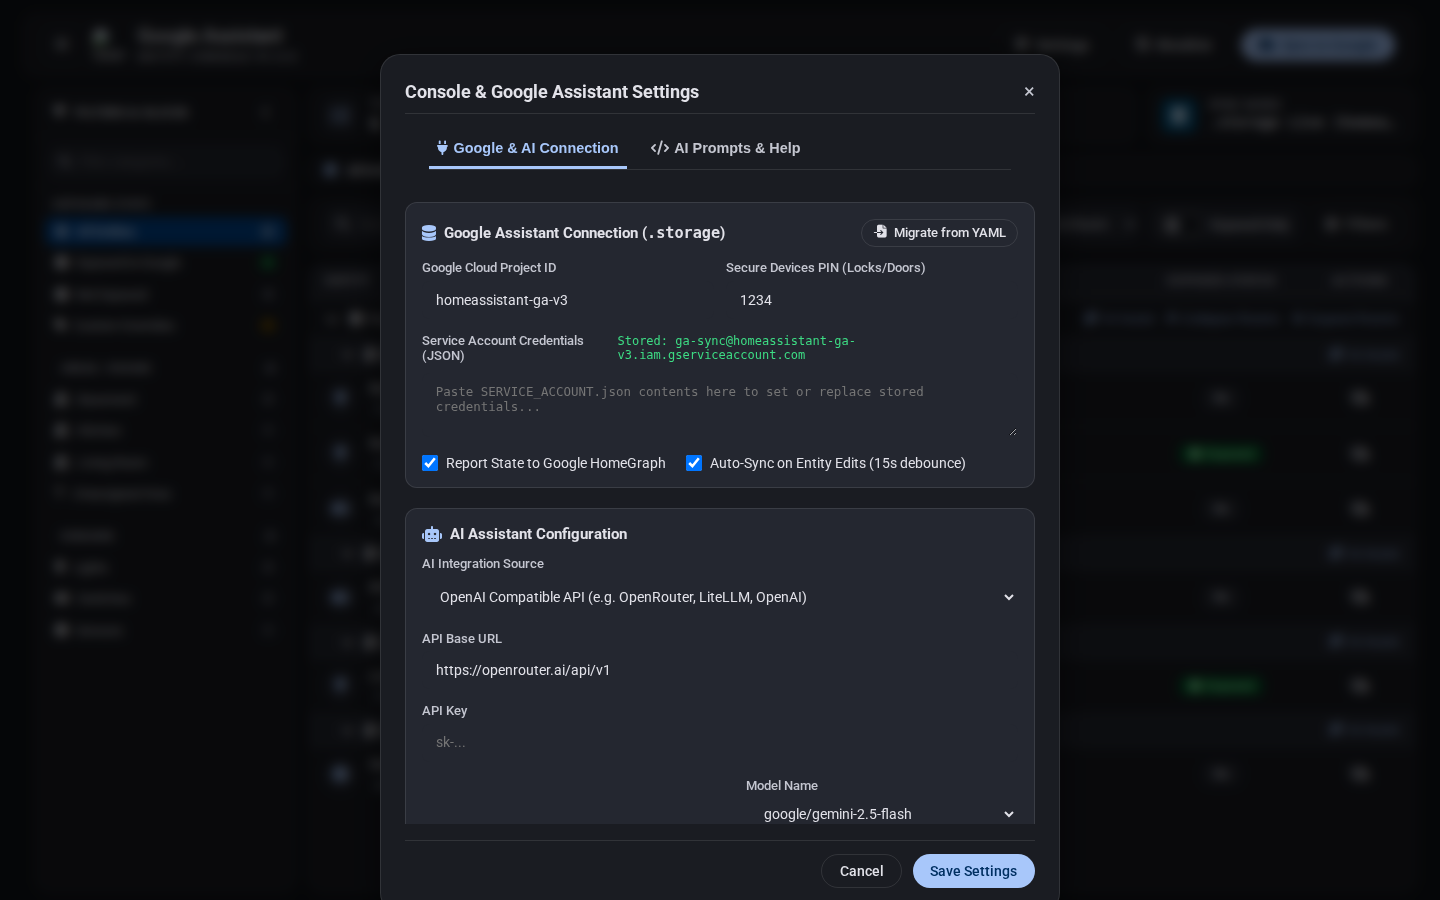
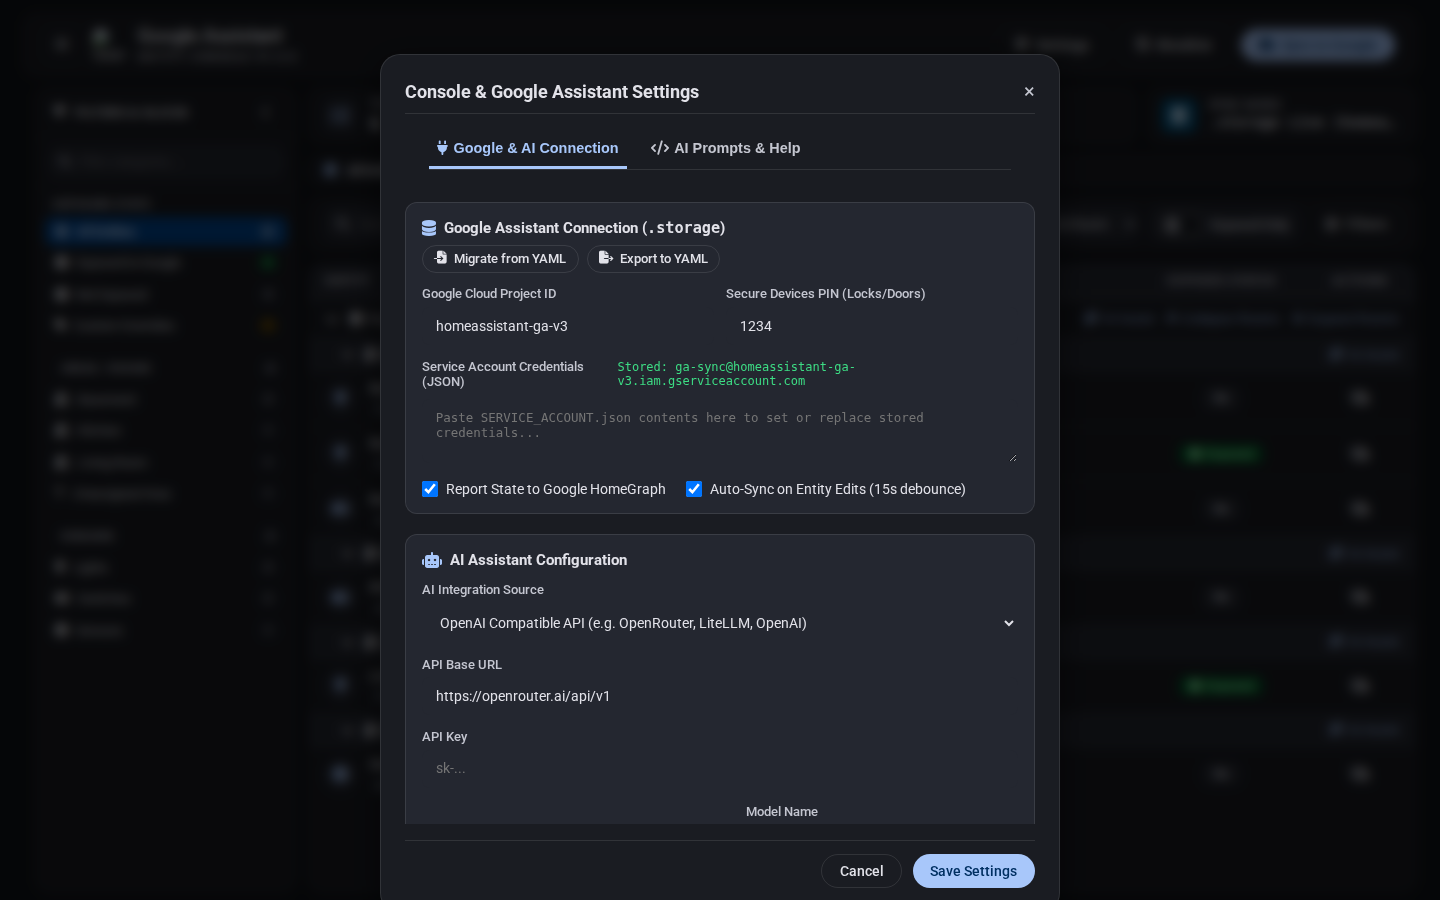
feat(yaml): add 1-click Export to YAML action and async_remove_entry lifecycle handler for clean uninstall

Changed region(s): [[0.2812, 0.2489, 0.6875, 0.56], [0.2812, 0.5911, 0.5625, 0.84], [0.5, 0.8711, 0.625, 0.9333]]

diff --git a/custom_components/google_assistant_entity_console/static/index.html b/custom_components/google_assistant_entity_console/static/index.html
@@ -351,10 +351,16 @@
                                 <i class="fa-solid fa-database" style="color: var(--primary);"></i>
                                 <span style="font-weight: 600; font-size: 0.95rem; color: var(--on-surface);">Google Assistant Connection (<code>.storage</code>)</span>
                             </div>
-                            <button type="button" id="migrateYamlBtn" class="btn btn-secondary btn-sm" style="display: none; font-size: 0.8rem; padding: 0.35rem 0.7rem;">
-                                <i class="fa-solid fa-file-import"></i>
-                                <span>Migrate from YAML</span>
-                            </button>
+                            <div style="display: flex; gap: 0.5rem; align-items: center;">
+                                <button type="button" id="migrateYamlBtn" class="btn btn-secondary btn-sm" style="display: none; font-size: 0.8rem; padding: 0.35rem 0.7rem;">
+                                    <i class="fa-solid fa-file-import"></i>
+                                    <span>Migrate from YAML</span>
+                                </button>
+                                <button type="button" id="exportYamlBtn" class="btn btn-secondary btn-sm" style="font-size: 0.8rem; padding: 0.35rem 0.7rem;" title="Export current .storage config to a gaGen_*.yaml file before uninstalling or reverting">
+                                    <i class="fa-solid fa-file-export"></i>
+                                    <span>Export to YAML</span>
+                                </button>
+                            </div>
                         </div>
 
                         <div style="display: grid; grid-template-columns: 1fr 1fr; gap: 0.75rem;">

diff --git a/custom_components/google_assistant_entity_console/static/app.js b/custom_components/google_assistant_entity_console/static/app.js
@@ -1977,6 +1977,36 @@ function setupAiEventListeners() {
             }
         });
     }
+
+    const exportYamlBtn = document.getElementById('exportYamlBtn');
+    if (exportYamlBtn) {
+        exportYamlBtn.addEventListener('click', async () => {
+            exportYamlBtn.disabled = true;
+            const originalHtml = exportYamlBtn.innerHTML;
+            exportYamlBtn.innerHTML = '<i class="fa-solid fa-spinner fa-spin"></i> <span>Exporting...</span>';
+            try {
+                const response = await authFetch('/api/google_assistant_entity_console/rebuild', {
+                    method: 'POST',
+                    headers: {
+                        'Content-Type': 'application/json',
+                        ...getAuthHeaders()
+                    },
+                    body: JSON.stringify({})
+                });
+                if (!response.ok) {
+                    const err = await response.json();
+                    throw new Error(err.error || 'Export failed');
+                }
+                const data = await response.json();
+                showToast(`Exported ${data.exposed_count} entities to ${data.filename}! Add 'google_assistant: !include ${data.filename}' to configuration.yaml if uninstalling.`, 'success');
+            } catch (error) {
+                showToast('Error exporting YAML: ' + error.message, 'error');
+            } finally {
+                exportYamlBtn.disabled = false;
+                exportYamlBtn.innerHTML = originalHtml;
+            }
+        });
+    }
     
     const closeSettings = () => {
         if (aiSettingsModal) aiSettingsModal.style.display = 'none';

diff --git a/tests/test_playwright_e2e.py b/tests/test_playwright_e2e.py
@@ -468,6 +468,32 @@ def test_google_storage_settings_and_yaml_migration(page):
     page.wait_for_timeout(200)
     assert len(migrated) == 1
 
+    # Export to YAML for standalone rollback / clean uninstall
+    exported = []
+    page.route(
+        "**/api/google_assistant_entity_console/rebuild",
+        lambda route: (
+            exported.append(True),
+            route.fulfill(
+                status=200,
+                content_type="application/json",
+                body=json.dumps({
+                    "success": True,
+                    "filename": "gaGen_101726.yaml",
+                    "exposed_count": 2,
+                    "has_include_directive": False,
+                    "required_include": "google_assistant: !include gaGen_101726.yaml",
+                }),
+            ),
+        ),
+    )
+
+    assert page.locator("#exportYamlBtn").is_visible() is True
+    page.click("#exportYamlBtn")
+    page.wait_for_timeout(300)
+    assert len(exported) == 1
+    assert "Exported 2 entities to gaGen_101726.yaml" in (page.locator("#toast").text_content() or "")
+
     # Update Google settings and save
     page.fill("#gaProjectIdInput", "new-storage-proj")
     page.fill("#gaPinInput", "5678")
@@ -479,4 +505,6 @@ def test_google_storage_settings_and_yaml_migration(page):
     assert saved_payloads[0]["project_id"] == "new-storage-proj"
     assert saved_payloads[0]["secure_devices_pin"] == "5678"
     assert saved_payloads[0]["auto_sync"] is False
+
+
 

diff --git a/custom_components/google_assistant_entity_console/views.py b/custom_components/google_assistant_entity_console/views.py
@@ -531,9 +531,24 @@ class RebuildView(HomeAssistantView):
                     existing_content = await hass.async_add_executor_job(_read_file_content, existing_filepath)
                 except Exception as err:
                     _LOGGER.warning("Failed to read existing YAML header from %s: %s", existing_filepath, err)
-                    existing_content = ""
-
             header_lines = extract_yaml_header(existing_content)
+            if header_lines == DEFAULT_YAML_HEADER:
+                try:
+                    store = await async_get_store(hass)
+                    gs = store.google_settings
+                    if gs.get("project_id"):
+                        dyn_header = [
+                            f"project_id: {gs['project_id']}",
+                            "service_account: !include SERVICE_ACCOUNT.json",
+                            f"report_state: {str(gs.get('report_state', True)).lower()}",
+                            "expose_by_default: false",
+                        ]
+                        if gs.get("secure_devices_pin"):
+                            dyn_header.append(f"secure_devices_pin: {gs['secure_devices_pin']}")
+                        header_lines = dyn_header
+                except Exception:
+                    pass
+
             yaml_lines = list(header_lines) + ["entity_config:"]
 
             current_floor = None

diff --git a/tests/test_config_flow.py b/tests/test_config_flow.py
@@ -7,6 +7,7 @@ from unittest.mock import AsyncMock, MagicMock, patch
 import pytest
 
 from custom_components.google_assistant_entity_console import (
+    async_remove_entry,
     async_setup,
     async_setup_entry,
     async_unload_entry,
@@ -268,3 +269,19 @@ async def test_async_unload_entry(lifecycle_hass):
         mock_remove_panel.assert_called_once_with(
             lifecycle_hass, DOMAIN, warn_if_unknown=False
         )
+
+
+@pytest.mark.anyio
+async def test_async_remove_entry(lifecycle_hass):
+    """Test async_remove_entry cleanly uninstalls and cleans up hass.data[DOMAIN]."""
+    mock_entry = MagicMock()
+    lifecycle_hass.data[DOMAIN] = {"some": "runtime_data"}
+
+    with patch(
+        "custom_components.google_assistant_entity_console.async_remove_panel"
+    ) as mock_remove_panel:
+        await async_remove_entry(lifecycle_hass, mock_entry)
+        mock_remove_panel.assert_called_once_with(
+            lifecycle_hass, DOMAIN, warn_if_unknown=False
+        )
+        assert DOMAIN not in lifecycle_hass.data

diff --git a/custom_components/google_assistant_entity_console/__init__.py b/custom_components/google_assistant_entity_console/__init__.py
@@ -119,3 +119,10 @@ async def async_unload_entry(hass: HomeAssistant, entry: ConfigEntry) -> bool:
     _LOGGER.info("Unloading Google Assistant Entity Console config entry")
     async_remove_panel(hass, DOMAIN, warn_if_unknown=False)
     return True
+
+
+async def async_remove_entry(hass: HomeAssistant, entry: ConfigEntry) -> None:
+    """Handle clean removal / uninstallation of the integration entry."""
+    _LOGGER.info("Removing Google Assistant Entity Console config entry")
+    async_remove_panel(hass, DOMAIN, warn_if_unknown=False)
+    hass.data.pop(DOMAIN, None)
